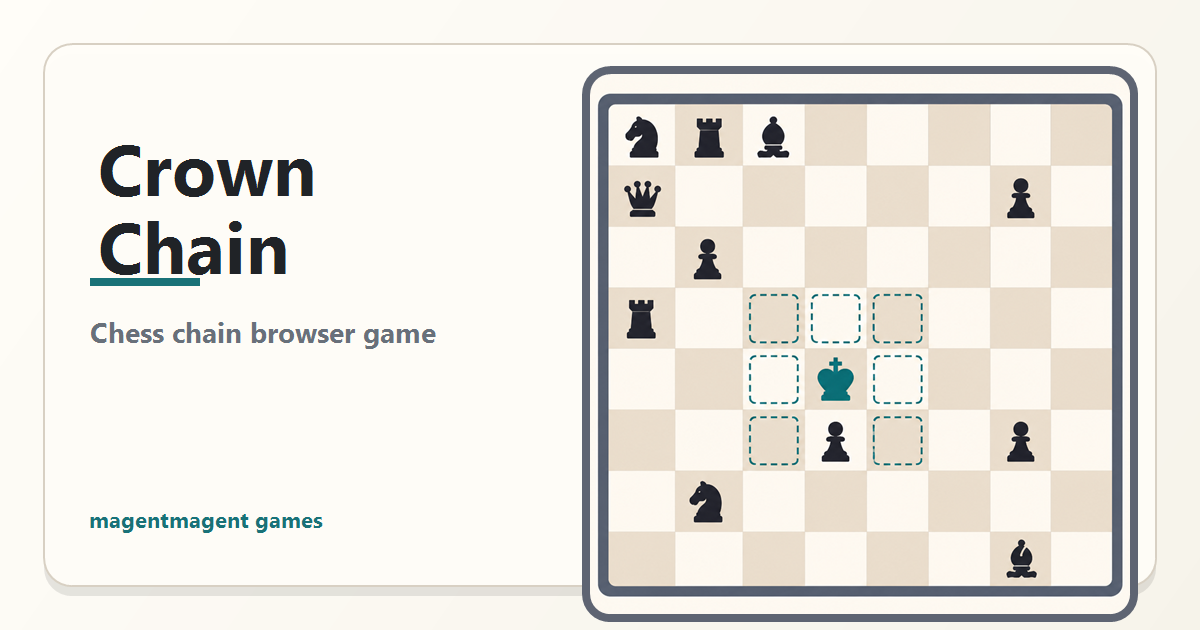
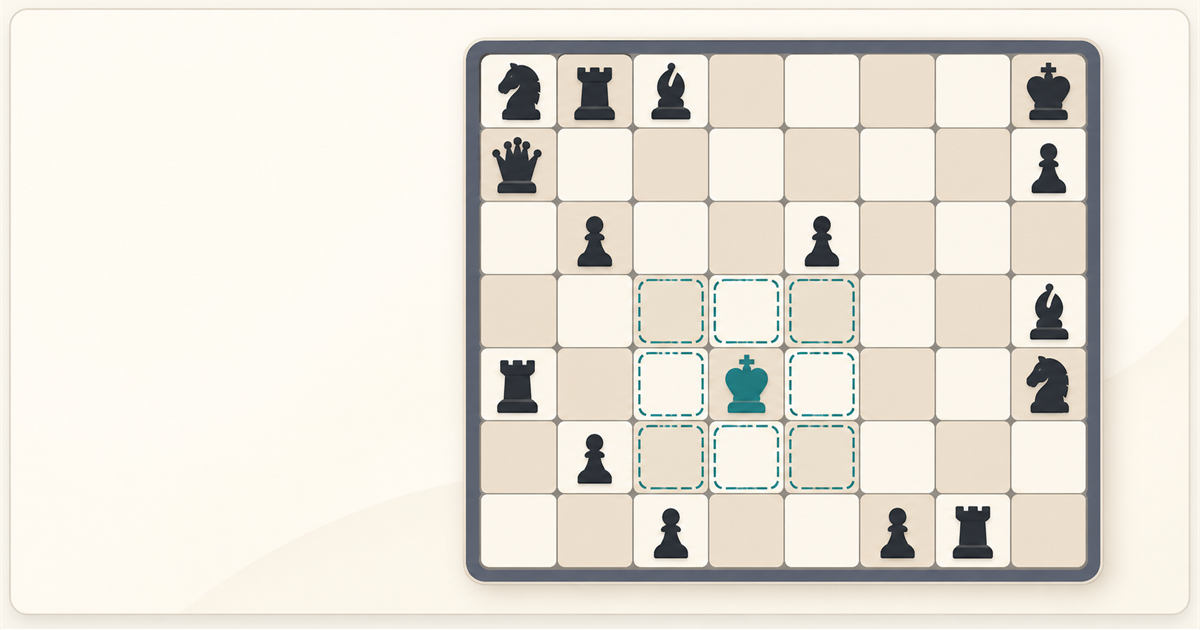
Refine embed cards and game share links

diff --git a/word-chain-snake/en/index.html b/word-chain-snake/en/index.html
@@ -2287,7 +2287,7 @@
     }
 
     function shareUrl() {
-      return `${window.location.origin}/`;
+      return "https://magentmagent.github.io/word-chain-snake/en/";
     }
 
     function shareSummary() {

diff --git a/word-chain-snake/ja/index.html b/word-chain-snake/ja/index.html
@@ -2303,7 +2303,7 @@
     }
 
     function shareUrl() {
-      return `${window.location.origin}/`;
+      return "https://magentmagent.github.io/word-chain-snake/ja/";
     }
 
     function shareSummary() {

diff --git a/word-chain-snake/ko/index.html b/word-chain-snake/ko/index.html
@@ -2332,7 +2332,7 @@
     }
 
     function shareUrl() {
-      return `${window.location.origin}/`;
+      return "https://magentmagent.github.io/word-chain-snake/ko/";
     }
 
     function shareSummary() {